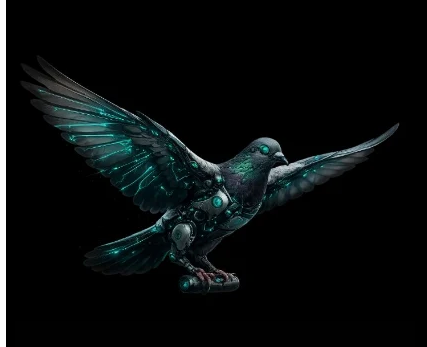
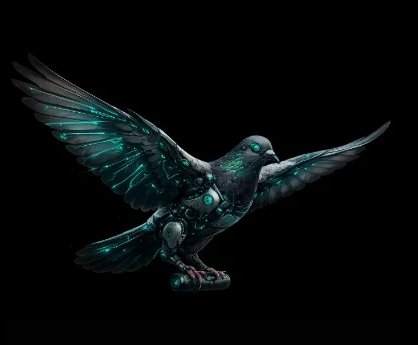
Version 5.0

Changed region(s): [[0.0, 0.0, 0.933, 1.0], [0.311, 0.5797, 0.3421, 0.6087]]

diff --git a/story/levels/level-1-cyber-tauben.md b/story/levels/level-1-cyber-tauben.md
@@ -1,0 +1,158 @@
+# Level 1: Die Cyber Tauben – Spielkonzept
+
+## 📜 MISSION STORY & LERNZIELE
+
+ ### 🛰 Flug der Cybertauben
+ Das digitale Hauptnetzwerk ist komplett blockiert – normale Internet-Leitungen oder direkte URLs sind für uns abgeschnitten. Der Hacker hat jede Verbindung überwacht.
+ 
+ Um an die sicheren Open Data Archive heranzukommen, nutzen wir unsere geheimen Boten: die Cybertauben. Sie fliegen unbemerkt zu den externen Servern der Stadt, laden die sauberen JSON-Daten herunter und bringen sie direkt zu unserem Terminal zurück.
+ 
+ System-Upload läuft... > Verbindung wird aufgebaut... Cybertauben gestartet! > Alles bereit. Mission Start!
+
+---
+
+### 🎓 Was die Schülerinnen & Schüler in diesem Spiel lernen:
+**API (Application Programming Interface):** Verstehen, wie Schnittstellen genutzt werden, um Daten von externen Servern abzurufen.
+**URL / Endpoint (Zieladresse):** Lernen, wie eine Internet-Adresse als genauer Zielort für Datenabfragen funktioniert.
+**HTTP-Methoden (GET / POST):** Den Unterschied begreifen zwischen Daten anfordern (GET) und Daten senden (POST).
+**API-Token (Authentifizierung):** Erkennen, warum man einen digitalen Passierschein/Schlüssel braucht, um geschützte Server zu betreten.
+**JSON-Format (Daten-Transformation):** Verstehen, warum Computer strukturierte Schlüssel-Wert-Paare ("Schlüssel": Wert) brauchen, um unleserliche Datenströme blitzschnell zu verarbeiten.
+**HTTP-Fehlercodes:** Fehler wie 404 Not Found, 401 Unauthorized und 405 Method Not Allowed spielerisch interpretieren und beheben.
+
+---
+
+
+## 🎨 DESIGN & VISUELLES SYSTEM (ASSETS)
+
+**Stil:** Cyberpunk / Sci-Fi Terminal / Retro-Hacker-Konsole.
+**Farbschema:**
+  * Hauptakzent: Neon-Lila / Violett (#9D00FF)
+  * Zweitakzent: Neon-Cyan / Türkis (#00F0FF)
+  * Hintergrund: Midnight Black / Tiefschwarz (#0D0D11)
+**Hauptfigur-Asset (Cybertaube.png):**
+  * Verwendet wird die Bilddatei **Cybertaube.png**.
+  * **Freistellung:** Nur die Cybertaube selbst wird aus dem Bild entnommen (ohne den schwarzen Hintergrund).
+  * **Einsatz:** Die Taube wird als transparentes Sprite/Image-Element auf der Benutzeroberfläche und über der Vektor-Landkarte gerendert.
+  * **Dynamisches Greif-System an den Krallen:**
+    * In der Vorbereitungsphase im Terminal bleiben die Krallen leer/unbelegt.
+    * Sobald am Ziel-Server Daten abgeholt werden, wird das Daten-Paket (Zylinder/Icon) dynamisch unter das Sprite an die Krallen geheftet.
+
+---
+
+## 🎬 ANIMATIONS-ZUSTÄNDE & MAP-FLUG (STATE MACHINE)
+
+1. STATE_TERMINAL_IDLE (Ausrüstungs-Phase):
+   * Das Tauben-Sprite (Cybertaube.png) schwebt/sitzt ruhig im Terminal-Dock.
+   * Beim Auswählen der Regal-Items docken UI-Module animiert an der Taube an.
+2. STATE_MAP_TRANSITION (Szenenwechsel):
+   * Das Terminal-Interface klappt oder schiebt sich zur Seite.
+   * Eine interaktive Vektor-Landkarte öffnet sich im Hintergrund.
+3. STATE_IN_FLIGHT (Flug auf der Landkarte):
+   * **Trigger:** Aktiviert sich erst, wenn alle 3 Regal-Ebenen gewählt wurden und der Start-Button gedrückt wird.
+   * **Flug-Animation:** Das freigestellte Sprite Cybertaube.png bewegt sich programmatisch (z. B. via CSS/JS-Animation/Tweening) entlang einer Flugroute flüssig über die Landkarte zum Ziel-Server.
+   * Ein leichter Schwebesystem-Effekt (sanftes Auf- und Ab-Wippen/Pulsieren der Neon-Schaltkreise) simuliert die Flugbewegung.
+4. STATE_FAIL_FLIGHT (Fehler-Zustand):
+   * Die Flugbahn gerät ins Stottern/Kippen. Die Taube landet ratlos auf einem toten Masten oder Baum auf der Karte.
+5. STATE_RETURN_FLIGHT (Rückflug):
+   * Das Cybertaube.png-Sprite bewegt sich mit dem untergehängten Daten-Paket in den Krallen über die Landkarte zurück ins Hauptterminal.
+
+---
+
+## 🖥 INTERFACE-LAYOUT (DAS TERMINAL)
+
+Der Startbildschirm besteht aus drei Hauptbereichen:
+
+### 1. Linkes Panel: Das Ausrüstungs-Regal (Schritt-für-Schritt Freischaltung)
+**Ebene 1 (URL / Zieladresse):** Von Beginn an freigeschaltet.
+**Ebene 2 (HTTP-Methode - GET/POST):** Gesperrt, bis eine URL in Ebene 1 gewählt wurde.
+**Ebene 3 (API Token / Passierschein):** Gesperrt, bis eine Methode in Ebene 2 gewählt wurde.
+**Hilfestellung-Tooltips (Kontext ohne Spoiler):**
+  * [URL]: "Navigations-Modul: Zeigt der Cyber-Taube die genaue Internet-Adresse des Daten-Nests."
+  * [METHODE]: "Handlungs-Befehl: Bestimmt, ob die Taube etwas abholen (GET) oder überbringen (POST) soll."
+  * [API TOKEN]: "Passierschein: Ein digitaler Sicherheitsschlüssel, der dem Server zeigt, ob die Taube Zutritt hat."
+
+### 2. Mittleres Panel: Tauben-Missionsstation
+Zeigt die interaktive Cybertaube (Cybertaube.png).
+Spielt Koppelungs-Animationen ab, wenn Items ausgewählt werden.
+Enthält den Haupt-Aktionsbutton: [ TAUBE LOSSCHICKEN! ] (Deaktiviert, bis Ebene 1, 2 und 3 ausgefüllt sind).
+
+### 3. Rechtes Panel: Code-Vorschau Terminal
+Zeigt in Echtzeit den generierten HTTP-Request-Code in Computersprache an.
+
+---
+
+## 🕹 ABLAUFLOGIK & GAMEPLAY-FLOW
+1. Spieler wählt URL $\rightarrow$ Ebene 2 schaltet frei.
+2. Spieler wählt Methode (GET) $\rightarrow$ Ebene 3 schaltet frei.
+3. Spieler wählt API Token $\rightarrow$ Button [ TAUBE LOSSCHICKEN! ] leuchtet lila auf.
+4. Klick auf den Start-Button löst STATE_MAP_TRANSITION aus.
+5. Landkarte öffnet sich; Cybertaube.png startet den animierten Flug (STATE_IN_FLIGHT) über der Karte.
+
+---
+
+## ⚠ FEHLERHANDHABUNG & VALIDIERUNG MATRIX
+
+Sobald die Taube den Ziel-Server auf der Landkarte erreicht, wird die Auswahl geprüft:
+
+| Fehler-Szenario | Ursache | Visuelles Feedback / Animation | Status-Code & Meldung |
+| :--- | :--- | :--- | :--- |
+| **Falsche URL** | Falsche Adresse gewählt | Taube fliegt vom Kurs ab und landet auf einem toten Masten (STATE_FAIL_FLIGHT). | 404 Not Found<br>"Adresse existiert nicht im Netzwerk!" |
+| **Kein / Falsches Token** | Falscher Sicherheitsschlüssel | Ein Türsteher-Falke (Security-Bot) blockiert den Server-Eingang. | 401 Unauthorized<br>"Zugriff verweigert! Kein gültiger Sicherheitsschlüssel." |
+| **Falsche Methode** | POST statt GET gewählt | Server-Knoten verweigert die Herausgabe der Daten. | 405 Method Not Allowed<br>"Falsche Methode! Erwarte Daten-Abholung (GET)." |
+
+---
+
+## 📦 DATEN-ABRUF & TRANSFORMATION
+
+1. **Erfolgs-Pfad:**
+   * Der Türsteher-Falke winkt die Taube durch.
+   * Das Paket (Zylinder) wird dynamisch an die Krallen von Cybertaube.png gekoppelt.
+   * Spielt STATE_RETURN_FLIGHT zurück ins Terminal ab.
+2. **Das Papierrollen-Chaos:**
+   * Die Taube klinkt das Paket im Terminal aus.
+   * Ein unleserlicher, endloser Rohdaten-Papierstreifen rollt sich über den Bildschirm aus.
+   * Das Terminal blinkt rot: ERR_UNREADABLE_STREAM.
+3. **Der Scan-Vorgang:**
+   * Spieler klickt auf den Button **[ SCAN & IN JSON UMWANDELN ]**.
+   * Ein lila Laser-Strahl fährt über den Papierstreifen.
+4. **Zwei Ansichten entstehen:**
+   * **Maschinen-Ansicht:** Sauber strukturiertes JSON-Format.
+   * **Menschen-Ansicht (Human Dashboard):** Übersichtliche Interface-Karten mit den übersetzten Stadt-Daten.
+
+---
+
+## 💡 ERKLÄR-TEXT IM SPIEL (SPRECHBLASE / MODAL)
+
+Nach dem Scan erscheint folgender Text als Info-Box im Spiel:
+
+ 💬 **SYSTEM-MESSAGE:**
+ * ❌ **Das Problem (Papierstreifen):** Ein Computer kann nicht raten! In einer ununterbrochenen Textwurst (Tagesverbrauch1Notrufzentrale0) weiß das System nicht, wo eine Zahl anfängt und ein Begriff aufhört.
+ * ✅ **Die Lösung (JSON-Format):** JSON beschriftet jede Info mit einem festen Etikett: "Schlüssel": Wert (z. B. "Tagesverbrauch": 1). Durch die Ordnung in geschweiften Klammern { } liest der Computer die Daten in Millisekunden fehlerfrei aus!
+
+---
+
+## 📊 DATENSATZ (JSON & DASHBOARD)
+
+### JSON-Ausgabe (Maschinen-Code):
+json{
+  "energie": {
+    "kennzahl": "Tagesverbrauch_kWh",
+    "wert": 1
+  },
+  "sicherheit_und_standort": {
+    "kennzahl": "Notrufzentrale",
+    "status": 0
+  },
+  "demografie": {
+    "kennzahl": "Einwohnerzahl",
+    "wert": 15
+  },
+  "verkehr_und_lichtsignale": {
+    "kennzahl": "Ampelsteuerung",
+    "status": "manuell / ausfall"
+  },
+  "trinkwasser": {
+    "kennzahl": "Zustand",
+    "status": "gefaehrliche_chemikalien"
+  }
+}

diff --git a/story/levels/level-2-schatten-archiv.md b/story/levels/level-2-schatten-archiv.md
@@ -1,4 +1,4 @@
-# Level 1: Das Schatten-Archiv – Spielkonzept
+# Level 2 – Das Schattenarchiv
 
 ## **1. Kopfbereich & Einleitung**
  **Tief im Schatten-Archiv liegen die ersten Datenfragmente. Auch der Nebel hat Datensätze beschädigt. Prüfe die offenen Datensätze, finde die unmöglichen Werte, korrigiere sie, nur saubere Daten öffnen das Schloss.**
